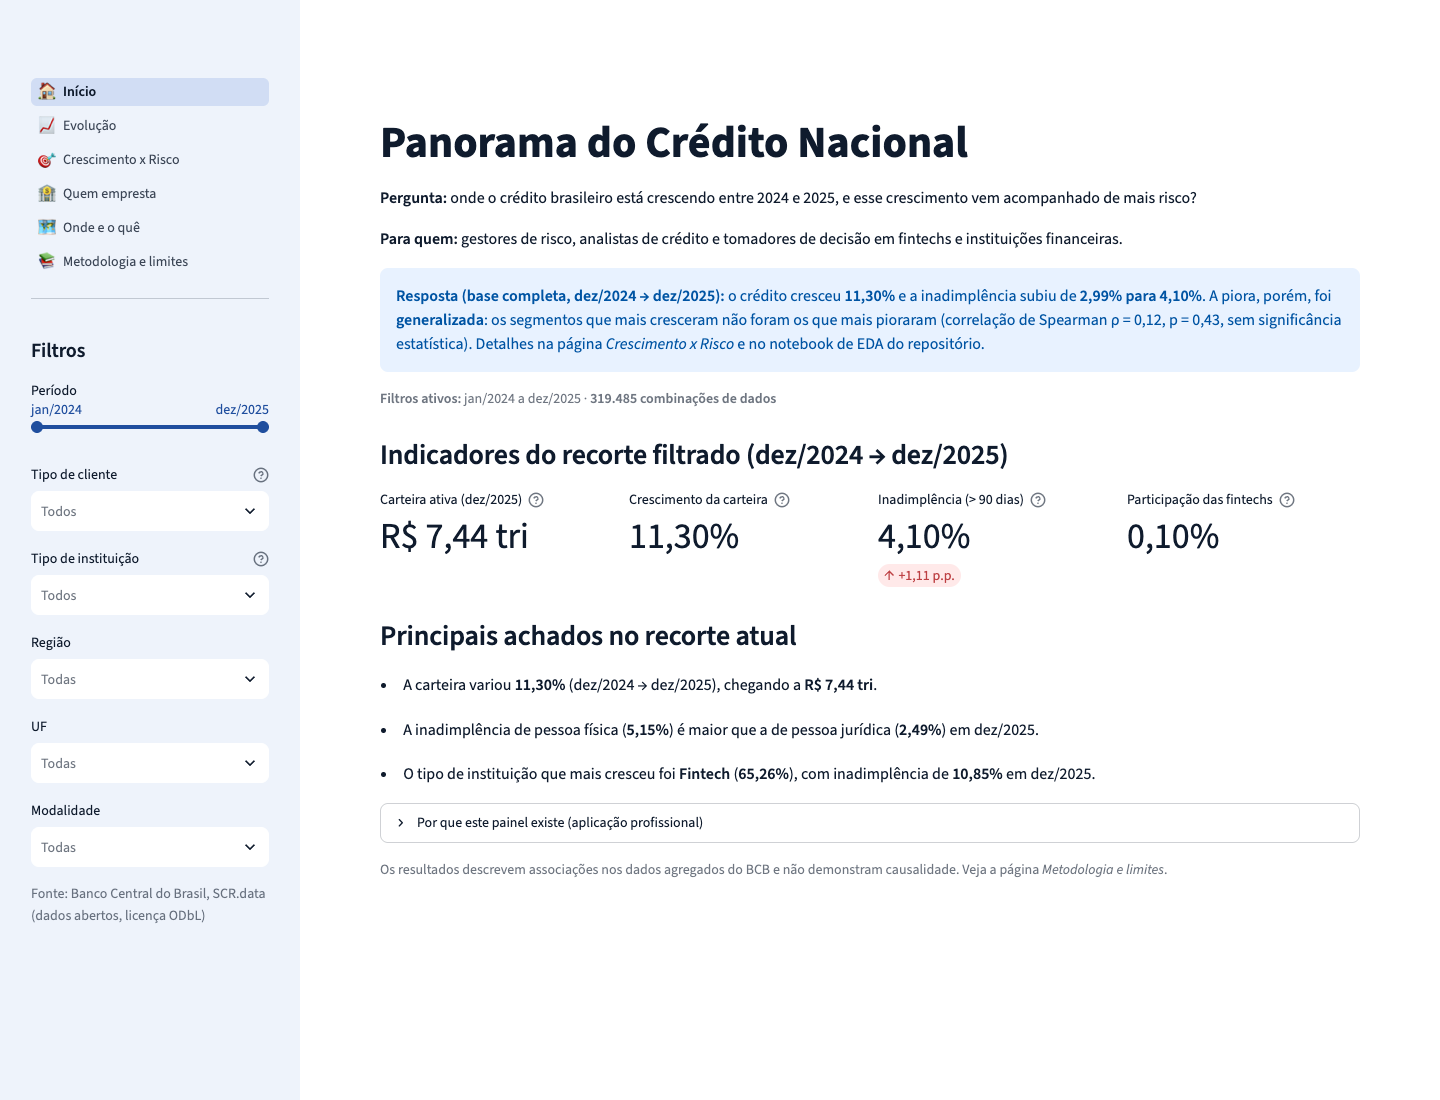
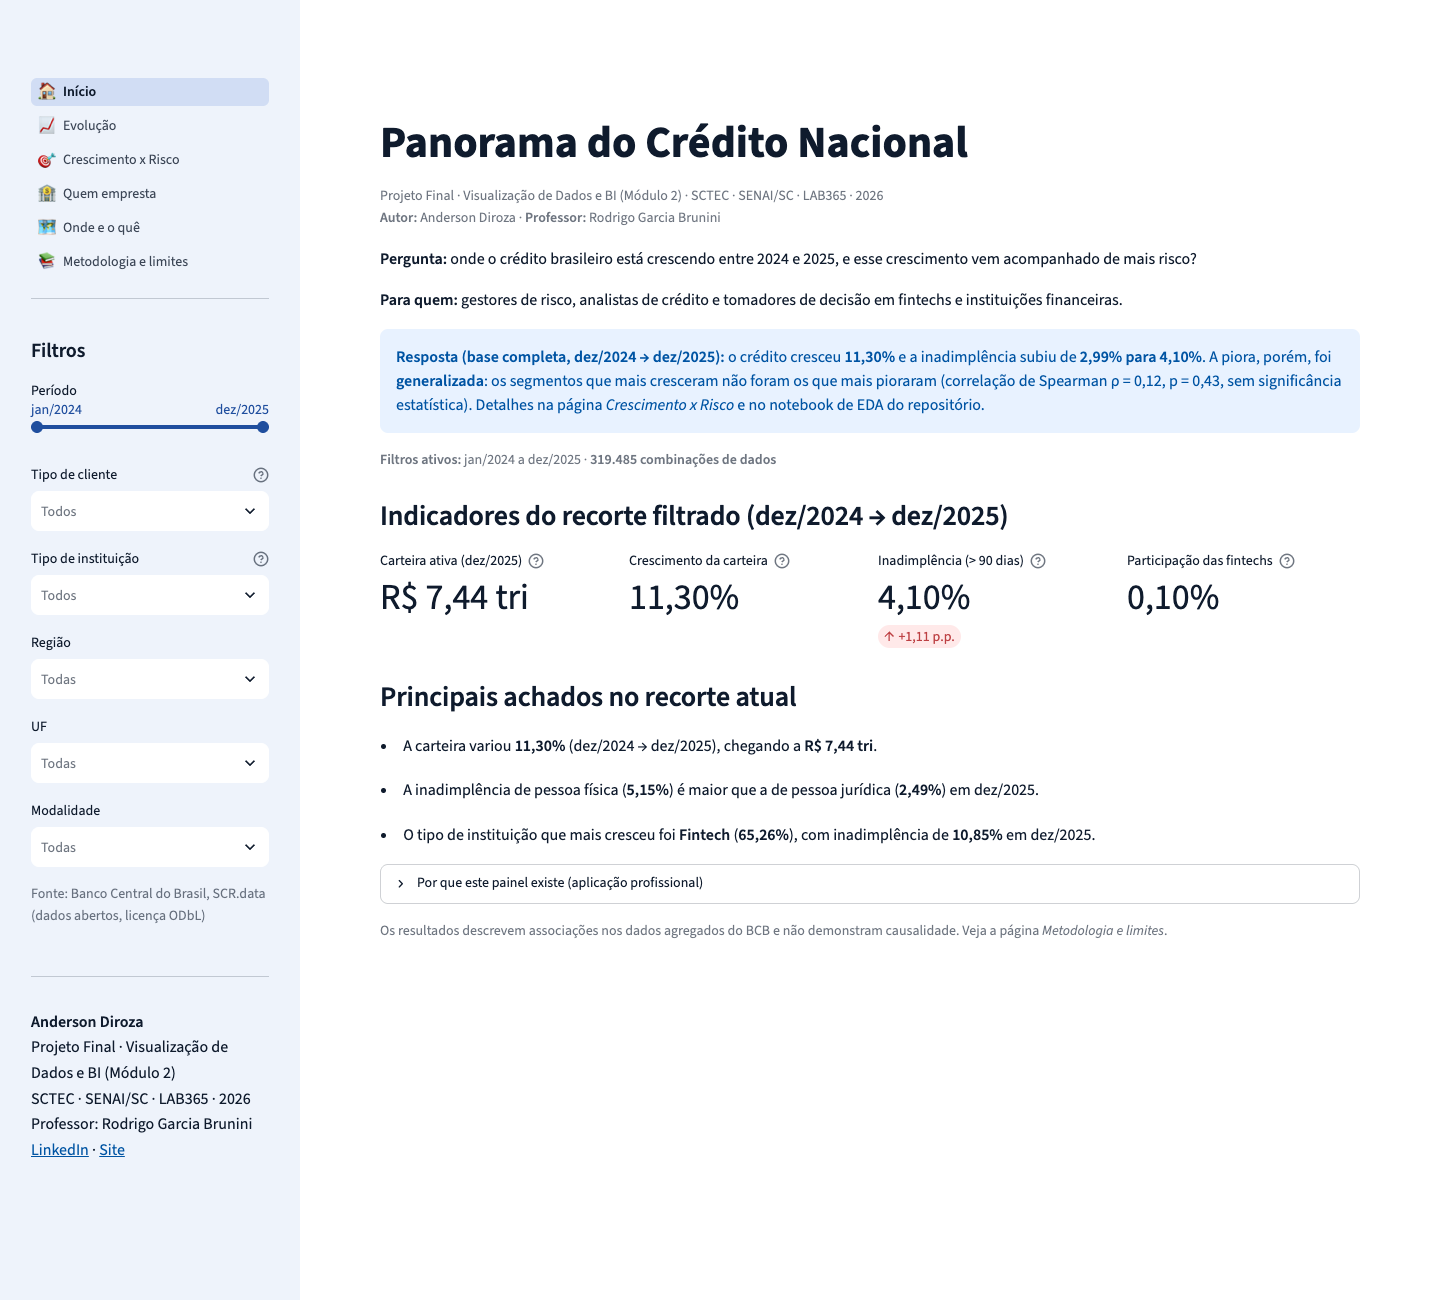
adiciona identificação do curso, do autor e do professor no app

diff --git a/src/interface.py b/src/interface.py
@@ -48,8 +48,31 @@ def barra_lateral(fato: pd.DataFrame) -> dict:
     ufs = st.sidebar.multiselect("UF", ufs_disponiveis, placeholder="Todas")
     modalidades = st.sidebar.multiselect("Modalidade", _opcoes(fato, "modalidade"), placeholder="Todas")
     st.sidebar.caption(utils.FONTE)
+    identificacao_lateral()
     return {"inicio": inicio, "fim": fim, "clientes": clientes, "segmentos": segmentos,
             "regioes": regioes, "ufs": ufs, "modalidades": modalidades}
+
+
+def identificacao_curso() -> str:
+    """Linha que identifica o trabalho acadêmico (usada no topo da página Início)."""
+    p = config.PROJETO
+    return f"{p['trabalho']} · {p['curso']} · {p['instituicoes']} · {p['ano']}"
+
+
+def identificacao_lateral() -> None:
+    """Bloco fixo no fim da barra lateral: autor, curso e links (aparece em todas as páginas)."""
+    p = config.PROJETO
+    links = [f"[LinkedIn]({p['linkedin']})", f"[Site]({p['site']})"]
+    if p["repositorio"]:
+        links.append(f"[Repositório]({p['repositorio']})")
+    st.sidebar.divider()
+    st.sidebar.markdown(
+        f"**{p['autor']}**  \n"
+        f"{p['trabalho']} · {p['curso']}  \n"
+        f"{p['instituicoes']} · {p['ano']}  \n"
+        f"Professor: {p['professor']}  \n"
+        + " · ".join(links)
+    )
 
 
 def contexto():

diff --git a/pages/1_inicio.py b/pages/1_inicio.py
@@ -1,12 +1,14 @@
 """Página Início: pergunta, público, contexto e os principais números."""
 import streamlit as st
 
-from src import analysis, interface, utils
+from src import analysis, config, interface, utils
 
 dados, filtros, fato = interface.contexto()
 mes_base, mes_ref = interface.meses_comparacao(dados["fato_credito"], filtros)
 
 st.title("Panorama do Crédito Nacional")
+st.caption(f"{interface.identificacao_curso()}  \n"
+           f"**Autor:** {config.PROJETO['autor']} · **Professor:** {config.PROJETO['professor']}")
 st.markdown(
     "**Pergunta:** onde o crédito brasileiro está crescendo entre 2024 e 2025, "
     "e esse crescimento vem acompanhado de mais risco?\n\n"

diff --git a/src/config.py b/src/config.py
@@ -62,3 +62,16 @@ REGIAO_POR_UF = {
 MES_VALIDACAO = "2025-12"
 CARTEIRA_ESPERADA_VALIDACAO = 7.444e12
 TOLERANCIA_VALIDACAO = 0.01
+
+# Identificação acadêmica e do autor, exibida no app (topo da página Início e barra lateral).
+PROJETO = {
+    "curso": "Visualização de Dados e BI (Módulo 2)",
+    "trabalho": "Projeto Final",
+    "instituicoes": "SCTEC · SENAI/SC · LAB365",
+    "autor": "Anderson Diroza",
+    "professor": "Rodrigo Garcia Brunini",
+    "ano": 2026,
+    "linkedin": "https://www.linkedin.com/in/andersondiroza",
+    "site": "https://andersondiroza.com.br",
+    "repositorio": "",  # preenchido após a publicação no GitHub
+}

diff --git a/tests/test_app.py b/tests/test_app.py
@@ -45,3 +45,10 @@ def test_paginas_abrem_sem_erro(app_teste, pagina):
     at = app_teste.run()
     at.switch_page(pagina).run()
     assert not at.exception, at.exception
+
+
+def test_identificacao_do_curso_e_do_autor(app_teste):
+    at = app_teste.run()
+    textos = " ".join(m.value for m in at.markdown) + " ".join(c.value for c in at.caption)
+    for esperado in ["Anderson Diroza", "Rodrigo Garcia Brunini", "SENAI/SC", "Visualização de Dados e BI"]:
+        assert esperado in textos, esperado
